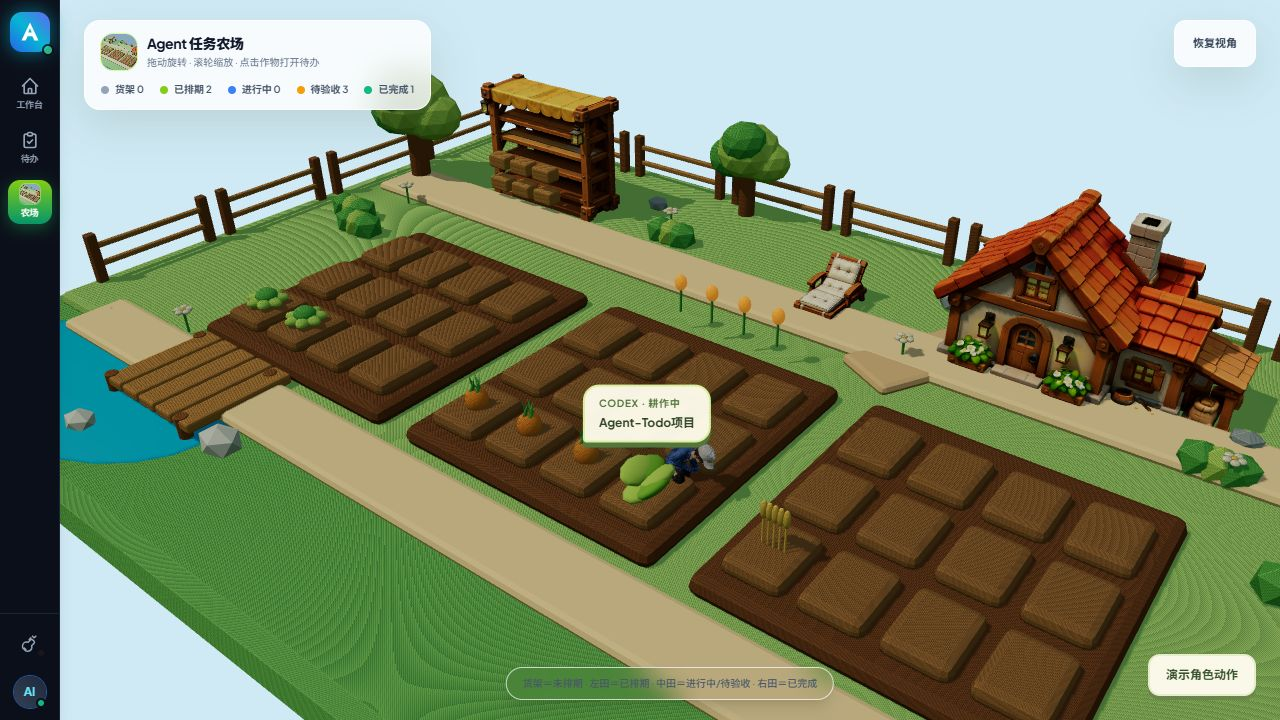
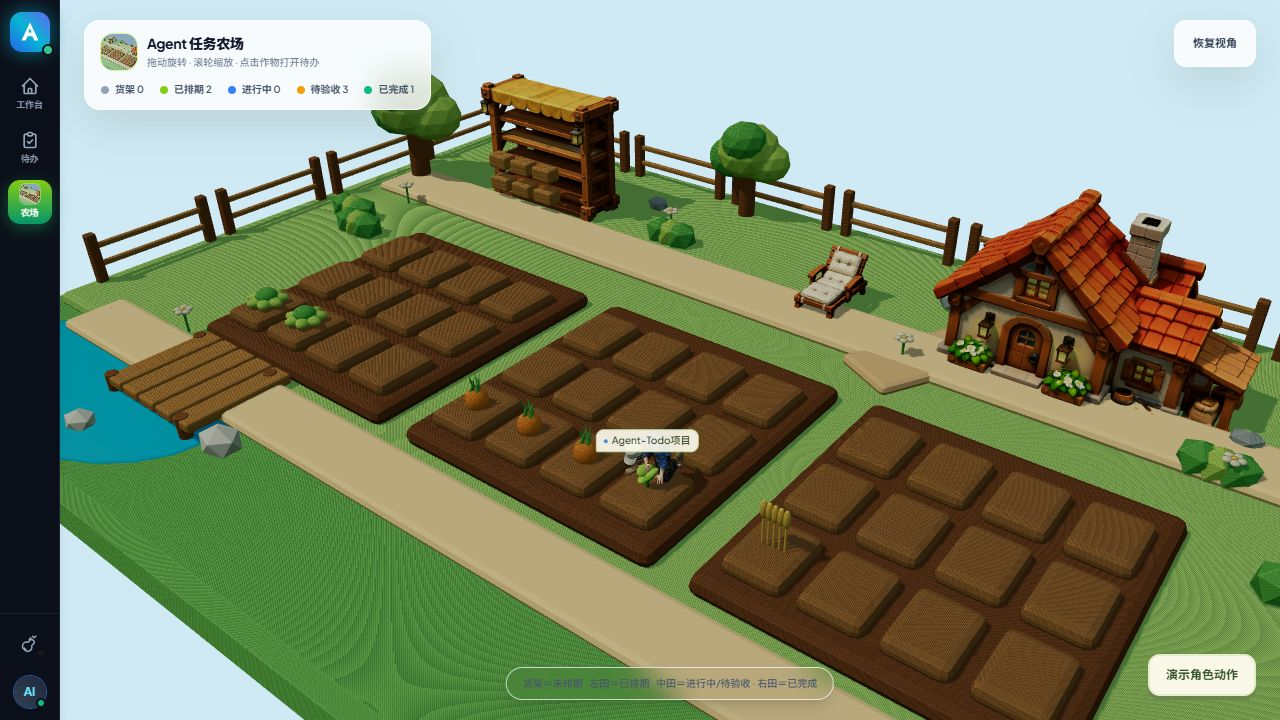
fix: align farm character and visualize concurrent session plots

Changed region(s): [[0.4375, 0.5194, 0.5625, 0.7028], [0.5312, 0.3361, 0.6875, 0.4889], [0.5625, 0.6722, 0.5938, 0.7028]]

diff --git a/assets/web/farm3d.js b/assets/web/farm3d.js
@@ -90,8 +90,10 @@ export function createAgentFarm3D({ container, tooltip, onTaskOpen, onSessionOpe
   let desiredWork = false;
   let sessionTasks = [];
   let workingSessionId = null;
+  let switchAfter = 12;
+  let elapsed = 0;
   const sessionPlants = new Map();
-  const seat = new THREE.Vector3(0.7, 0.16, -4.36);
+  const seat = new THREE.Vector3(0.7, 0.3, -4.02);
   const labels = document.createElement('div');
   labels.className = 'farm-session-labels';
   container.appendChild(labels);
@@ -178,7 +180,7 @@ export function createAgentFarm3D({ container, tooltip, onTaskOpen, onSessionOpe
   });
 
   function openSession(task) {
-    if(task.id === 'farm-preview') return;
+    if(task.id.startsWith('farm-preview')) return;
     if (onSessionOpen) onSessionOpen(task);
     else window.location.href = `codex://threads/${encodeURIComponent(task.threadId || task.id)}`;
   }
@@ -240,6 +242,7 @@ export function createAgentFarm3D({ container, tooltip, onTaskOpen, onSessionOpe
   function enterPhase(next) {
     phase = next;
     phaseTime = 0;
+    if(next==='digging') switchAfter=10+Math.random()*8;
     const actions = { rising: ['sit', {once:true, reverse:true}], walking: ['walk', {}], digging: ['dig', {}], roadside: ['walk', {}], dancing: ['dance_05', {once:true}], returning: ['walk', {}], sitting: ['sit', {once:true}], resting: ['sit', {hold:true}], waiting: ['dig', {hold:true}] };
     phaseDuration = playClip(...actions[next]);
     const phaseLabels = {rising:'起身',walking:'走向田地',digging:'耕作中',roadside:'走向路边',dancing:'庆祝完成',returning:'返回躺椅',sitting:'坐下',resting:'休息中',waiting:'等待确认'};
@@ -257,15 +260,33 @@ export function createAgentFarm3D({ container, tooltip, onTaskOpen, onSessionOpe
   function workPosition() {
     const task = sessionTasks.find(item => item.id === workingSessionId && item.status !== 'done') || sessionTasks.find(item => item.status !== 'done');
     workingSessionId = task?.id || null;
+    labels.dataset.workingSession=workingSessionId || '';
     const plant = sessionPlants.get(task?.id);
-    return plant ? plant.root.position.clone().add(new THREE.Vector3(0, 0, -0.65)) : new THREE.Vector3(0, 0.16, 0.35);
+    return plant ? plant.root.position.clone().add(new THREE.Vector3(0, 0, -0.4)) : new THREE.Vector3(0, 0.66, 0.35);
+  }
+
+  function isProblem(task) {
+    return /waiting_approval|confirm|error|failed|blocked|needs_input/.test(String(task.status || '').toLowerCase());
   }
 
   function syncSessions(agent) {
-    sessionTasks = previewTime >= 0 ? [{id:'farm-preview', title:'动作演示 · 走到田地种下一株植物', status:previewTime<28 ? 'in_progress':'done'}] : agent.agentTasks || [];
+    sessionTasks = previewTime >= 0 ? [
+      {id:'farm-preview-1', title:'演示 · 界面开发', status:previewTime<45 ? 'in_progress':'done'},
+      {id:'farm-preview-2', title:'演示 · 接口联调', status:previewTime<45 ? 'in_progress':'done'},
+      {id:'farm-preview-3', title:'演示 · 等待确认', status:previewTime<45 ? 'waiting_approval':'done'}
+    ] : agent.agentTasks || [];
     if (!sessionTasks.length && agent.threadId && desiredWork) sessionTasks = [{id:agent.threadId, threadId:agent.threadId, title:agent.task, status:'in_progress'}];
     const keep = new Set(sessionTasks.map(task => task.id));
-    for (const [id, plant] of sessionPlants) if (!keep.has(id) && !(desiredWork === false && phase !== 'resting')) {
+    for (const [id, plant] of sessionPlants) if (!keep.has(id)) {
+      if(previewTime>=0 && !id.startsWith('farm-preview')) {plant.root.visible=false; plant.button.hidden=true; continue;}
+      if(!id.startsWith('farm-preview')) {
+        // Finished/read threads drop out of the activity snapshot; keep their harvest.
+        plant.root.userData.session={...plant.root.userData.session,status:'done'};
+        plant.button.dataset.status='done';
+        plant.root.visible=true;
+        plant.button.setAttribute('aria-label',`${plant.root.userData.session.title}，已完成，点击打开会话`);
+        continue;
+      }
       scene.remove(plant.root);
       plant.button.remove();
       plant.root.traverse(mesh => { if(mesh.isMesh) { mesh.geometry.dispose(); mesh.material.dispose(); const index=interactiveMeshes.indexOf(mesh); if(index>=0) interactiveMeshes.splice(index,1); } });
@@ -275,12 +296,14 @@ export function createAgentFarm3D({ container, tooltip, onTaskOpen, onSessionOpe
       let plant = sessionPlants.get(task.id);
       if (!plant) {
         const root = new THREE.Group();
-        const freeSlots = slotGroups.active.filter(slot => !slot.userData.task);
-        const candidates = freeSlots.length ? freeSlots : slotGroups.active;
-        const slot = candidates[index % candidates.length];
+        const occupied = new Set([...sessionPlants.values()].map(plant=>plant.root.userData.slot));
+        const available = [...slotGroups.active,...slotGroups.done,...slotGroups.scheduled].filter(slot=>!occupied.has(slot.name));
+        const slot = available.find(slot=>!slot.userData.task) || available[0];
+        if(!slot) return;
         slot?.getWorldPosition(root.position);
-        root.position.y = 0.22;
+        root.position.y = 0.66;
         root.userData.session = task;
+        root.userData.slot = slot.name;
         const stem = new THREE.Mesh(new THREE.CylinderGeometry(0.055,0.08,0.62,7), new THREE.MeshStandardMaterial({color:0x518735}));
         stem.position.y = 0.32;
         root.add(stem);
@@ -296,42 +319,66 @@ export function createAgentFarm3D({ container, tooltip, onTaskOpen, onSessionOpe
         button.className='farm-session-bubble';
         button.addEventListener('click',()=>openSession(root.userData.session));
         labels.appendChild(button);
-        plant={root,button,age:0.12}; sessionPlants.set(task.id,plant);
+        plant={root,button,age:0.65}; sessionPlants.set(task.id,plant);
       }
       plant.root.userData.session=task;
+      plant.root.visible=true;
       plant.button.textContent=task.title || 'Codex 会话';
       plant.button.title=`${task.title} · 点击打开 Codex 会话`;
       plant.button.dataset.status=task.status;
+      plant.button.dataset.slot=plant.root.userData.slot;
+      plant.button.setAttribute('aria-label',`${task.title}，${task.status==='done' ? '已完成' : isProblem(task) ? '待确认或异常' : '进行中'}，点击打开会话`);
     });
   }
 
   function tickCharacter(delta) {
     if(!character) return;
+    elapsed+=delta;
     if(previewTime>=0) {
       const previous=previewTime; previewTime+=delta;
-      if(previous<28 && previewTime>=28) update(state);
-      if(previewTime>=55) {previewTime=-1; previewButton.textContent='演示角色动作'; update(state);}
+      if(previous<45 && previewTime>=45) update(state);
+      if(previewTime>=85) {previewTime=-1; previewButton.textContent='演示角色动作'; update(state);}
     }
     phaseTime+=delta;
     if (route.length) {
       const target=route[0]; const difference=target.clone().sub(character.position); difference.y=0;
       const distance=difference.length();
-      if(distance<0.06) { route.shift(); if(!route.length) { if(route.nextPhase==='sitting') character.rotation.y=0; enterPhase(route.nextPhase); } }
-      else { character.rotation.y=Math.atan2(difference.x,difference.z); character.position.addScaledVector(difference.normalize(),Math.min(distance,delta*1.35)); }
+      if(distance<0.06) { character.position.copy(target); route.shift(); if(!route.length) { if(['sitting','digging'].includes(route.nextPhase)) character.rotation.y=0; enterPhase(route.nextPhase); } }
+      else {
+        character.rotation.y=Math.atan2(difference.x,difference.z);
+        character.position.addScaledVector(difference.normalize(),Math.min(distance,delta*1.35));
+        // Match the surface under the feet while following the direct shortest route.
+        const inField = slotGroups.active.concat(slotGroups.scheduled,slotGroups.done).some(slot=>{
+          const point=slot.getWorldPosition(new THREE.Vector3());
+          return Math.abs(point.x-character.position.x)<0.65 && Math.abs(point.z-character.position.z)<0.65;
+        });
+        const ground=inField ? 0.66 : 0.3;
+        character.position.y=THREE.MathUtils.damp(character.position.y,ground,12,delta);
+      }
     } else if(phase==='rising' && phaseTime>=phaseDuration) {
-      walkTo([new THREE.Vector3(0.7,0.16,-3.1),workPosition()], 'digging');
+      walkTo([workPosition()], 'digging');
     } else if(phase==='dancing' && phaseTime>=phaseDuration) {
-      walkTo([new THREE.Vector3(seat.x,seat.y,-3.1),seat], 'sitting','returning');
+      walkTo([seat], 'sitting','returning');
     } else if(phase==='sitting' && phaseTime>=phaseDuration) enterPhase('resting');
     if(desiredWork && ['resting','sitting','returning','dancing','roadside'].includes(phase)) { route=[]; if(phase==='resting'||phase==='sitting') enterPhase('rising'); else walkTo([workPosition()],'digging'); }
+    if(desiredWork && phase==='digging' && phaseTime>=switchAfter) {
+      const others=sessionTasks.filter(task=>task.status!=='done' && task.id!==workingSessionId && sessionPlants.has(task.id));
+      if(others.length) {workingSessionId=others[Math.floor(Math.random()*others.length)].id; walkTo([workPosition()],'digging');}
+      else switchAfter=phaseTime+12;
+    }
     if(!desiredWork && ['digging','waiting','walking','rising'].includes(phase)) {
-      walkTo([new THREE.Vector3(-4+Math.random()*8,0.16,-3.05)], 'dancing','roadside');
+      walkTo([new THREE.Vector3(-4+Math.random()*8,0.3,-3.05)], 'dancing','roadside');
     }
     for(const plant of sessionPlants.values()) {
+      if(!plant.root.visible) continue;
       if(phase==='digging' && plant.root.userData.session.id===workingSessionId) plant.age=Math.min(1,plant.age+delta/3);
-      if(plant.root.userData.session.status==='done') plant.age=1;
-      plant.root.scale.setScalar(Math.max(0.05,plant.age));
-      const position=plant.root.position.clone().add(new THREE.Vector3(0,1.25,0)).project(camera);
+      const task=plant.root.userData.session;
+      const completed=task.status==='done';
+      if(completed) plant.age=1;
+      const growth=Math.max(0.1,plant.age);
+      plant.root.scale.set(growth*0.4, growth*(completed ? 1.35 : 0.42), growth*0.4);
+      plant.root.rotation.z=isProblem(task) ? Math.sin(elapsed*5)*0.14 : 0;
+      const position=plant.root.position.clone().add(new THREE.Vector3(0,completed ? 1.25 : 0.64,0)).project(camera);
       plant.button.style.transform=`translate(-50%, -100%) translate(${(position.x*.5+.5)*container.clientWidth}px,${(-position.y*.5+.5)*container.clientHeight}px)`;
       plant.button.hidden=position.z>1 || plant.age<0.1;
       plant.button.dataset.phase=phase;
@@ -367,8 +414,9 @@ export function createAgentFarm3D({ container, tooltip, onTaskOpen, onSessionOpe
       }
     });
 
-    const agent = state.agents[0] || {};
-    desiredWork = previewTime >= 0 ? previewTime < 28 : ['busy', 'working', 'waiting_approval', 'confirm'].includes(String(agent.status || '').toLowerCase());
+    if(!state.agents.length) return;
+    const agent = state.agents[0];
+    desiredWork = previewTime >= 0 ? previewTime < 45 : ['busy', 'working', 'waiting_approval', 'confirm'].includes(String(agent.status || '').toLowerCase());
     syncSessions(agent);
     if(desiredWork && phase==='digging' && !sessionTasks.some(task=>task.id===workingSessionId && task.status!=='done')) walkTo([workPosition()],'digging');
   }
@@ -422,7 +470,7 @@ export function createAgentFarm3D({ container, tooltip, onTaskOpen, onSessionOpe
       name: 'FarmHouse', scale: 5.1, x: 5.6, z: -4.8, rotationY: -Math.PI / 2, groundY: 0.02
     });
     prepareDecorativeAsset(chairGltf.scene, {
-      name: 'RestChair', scale: 1.45, x: 0.7, z: -4.15, rotationY: -Math.PI / 2, groundY: 0.16
+      name: 'RestChair', scale: 1.45, x: 0.7, z: -4.15, rotationY: -Math.PI / 2, groundY: 0.32
     });
     prepareDecorativeAsset(stallGltf.scene, {
       name: 'TodoInboxStall', scale: 3.5, x: -7.5, z: -4.8, rotationY: -Math.PI / 2, groundY: 0.02
@@ -434,6 +482,7 @@ export function createAgentFarm3D({ container, tooltip, onTaskOpen, onSessionOpe
     farmRoot = gltf.scene;
     scene.add(farmRoot);
     farmRoot.traverse(object => {
+      if(/^Review(Marker|Bloom|Stem)_/.test(object.name)) {object.visible=false; return;}
       if (object.isLight) object.intensity = 0;
       if (object.isMesh) {
         object.castShadow = !/Water|Pond|Path/.test(object.name);
@@ -457,6 +506,8 @@ export function createAgentFarm3D({ container, tooltip, onTaskOpen, onSessionOpe
       character = new THREE.Group();
       const model=animated.scene;
       model.scale.setScalar(1.8);
+      // Tripo's face and forward leg direction are +X; routes use world +Z.
+      model.rotation.y=-Math.PI/2;
       character.add(model);
       character.position.copy(seat);
       scene.add(character);

diff --git a/assets/web/index.html b/assets/web/index.html
@@ -544,10 +544,10 @@
       backdrop-filter: blur(16px);
     }
     .farm-session-labels { position: absolute; inset: 0; pointer-events: none; overflow: hidden; }
-    .farm-session-bubble { position: absolute; left: 0; top: 0; pointer-events: auto; max-width: 240px; min-height: 44px; padding: 9px 14px; border: 2px solid #d7ef9e; border-radius: 16px 16px 16px 4px; background: #fffcecf5; color: #304426; box-shadow: 0 5px 0 #52763b, 0 9px 22px #26492330; font-size: 12px; font-weight: 700; text-align: left; overflow: hidden; text-overflow: ellipsis; white-space: nowrap; }
-    .farm-session-bubble::before { content: 'CODEX · 耕作中'; display: block; color: #52763b; font-size: 10px; margin-bottom: 3px; letter-spacing: .07em; }
-    .farm-session-bubble[data-status='done']::before { content: 'CODEX · 已完成'; }
-    .farm-session-bubble[data-status='waiting_approval']::before { content: 'CODEX · 等待确认'; color: #9a570d; }
+    .farm-session-bubble { position: absolute; left: 0; top: 0; pointer-events: auto; max-width: 138px; min-height: 22px; padding: 3px 7px; border: 1px solid #c7dba8; border-radius: 8px 8px 8px 2px; background: #fffceee8; color: #304426; box-shadow: 0 2px 5px #26492320; font-size: 10px; line-height: 15px; font-weight: 500; text-align: left; overflow: hidden; text-overflow: ellipsis; white-space: nowrap; }
+    .farm-session-bubble::before { content: ''; display: inline-block; width: 4px; height: 4px; margin: 0 4px 1px 0; border-radius: 50%; background: #4c91db; }
+    .farm-session-bubble[data-status='done']::before { background: #63a83f; }
+    .farm-session-bubble[data-status='waiting_approval']::before { background: #db9a26; }
     .farm-session-bubble:hover { background: #f0ffd4; border-color: #83b94d; }
     .farm-session-bubble:focus-visible { outline: 3px solid #2563eb; outline-offset: 4px; }
     .farm-preview-control { position: absolute; right: 24px; bottom: 24px; pointer-events: auto; border: 2px solid #e5edcd; border-radius: 12px; padding: 10px 16px; color: #36512b; background: #fffceef5; font-size: 12px; font-weight: 700; box-shadow: 0 4px 0 #6a864c; }
@@ -4005,7 +4005,7 @@ Please navigate to the Project Path specified above, analyze the current workspa
         farmLoading.value = true;
         farmError.value = '';
         try {
-          farmModulePromise ||= import('/farm3d.js?v=0.3.0');
+          farmModulePromise ||= import('/farm3d.js?v=0.3.1');
           const { createAgentFarm3D } = await farmModulePromise;
           if (!farmCanvasHost.value || activePrimaryModule.value !== 'farm') return;
           farmController = createAgentFarm3D({

diff --git a/design-qa.md b/design-qa.md
@@ -24,3 +24,7 @@ final result: passed
 - Verified the complete preview phase trace: `resting → rising → walking → digging → roadside → dancing → returning → sitting → resting`. A newly busy real session can interrupt the rest and start another cycle.
 - Verified the chair's local long axis and backrest geometry: its foot end is local +X, so a -90° Y rotation points it toward the fields (+Z). The final browser view shows the chair aligned front-to-back with the fields rather than parallel to the road.
 - Added keyboard-focusable game-style labels above growing session plants, plus a local action-preview control. Session titles use text content rather than interpolated HTML.
+- Corrected the native character's +X forward axis to world +Z (the house entrance/field-facing direction). Seated and digging poses now face forward; walking turns toward the direct destination instead of strafing sideways.
+- Raised the chair's lowest contact point to 0.32 and aligned the seated character with its front cushion. Removed the `ReviewMarker_*` balloon-like decorations.
+- Replaced two-line 240px labels with single-line 138px compact bubbles and 10px text. Session plants now grow to 45% of their previous scale, on top of the soil; the character follows the direct shortest segment and rises to the field surface when entering cells.
+- Allocated distinct persistent cells to each Codex session. Multiple unfinished sessions are visited in random order every 10–18 seconds of digging. Active plants remain short, completed plants grow tall, and approval/error/blocked plants sway. The preview includes two active sessions and one approval session to exercise these states without modifying live tasks.

diff --git a/README_EN.md b/README_EN.md
@@ -36,6 +36,8 @@ A local-first todo skill for Codex. It stores personal or workspace tasks in SQL
 
 The character uses native Tripo walk, sit, dig, and dance animations. When Codex starts working, it rises from the chair, walks into a field cell, and digs up a plant labeled with the session title. After work finishes, it walks to a random roadside spot, dances, and returns to sit. Click a plant or its floating title to open the Codex thread. Use the bottom-right action preview to try the full sequence without changing any tasks.
 
+Each session owns a distinct stable cell. The farmer randomly visits concurrent unfinished sessions: short plants indicate active work, tall plants indicate completion, and swaying plants indicate approval requests or problems. Walking follows a direct route; sitting and digging face the same direction as the house entrance. Compact bubbles display session titles.
+
 ![Agent Todo 3D task farm](assets/web/models/farm-browser.png)
 
 ## Requirements

diff --git a/README.md b/README.md
@@ -36,6 +36,8 @@
 
 角色使用 Tripo 原生行走、坐下、挖掘与跳舞动画：Codex 开始工作时从椅子起身走进田格，挖出带有会话标题的植物；工作结束后到随机路边位置跳舞，再返回躺椅。点击植物或悬浮标题可打开对应 Codex 会话，右下角“演示角色动作”可预览完整流程。
 
+每个会话使用独立固定田格；多个任务同时进行时，人物随机轮换耕作。矮植物表示进行中，高植物表示已完成，摇晃的植物表示等待确认或异常。人物按直线路径前往目标，坐下和挖掘时面向房屋正面的方向；小字气泡显示会话标题。
+
 ![Agent Todo 3D 任务农场](assets/web/models/farm-browser.png)
 
 ## 环境要求
